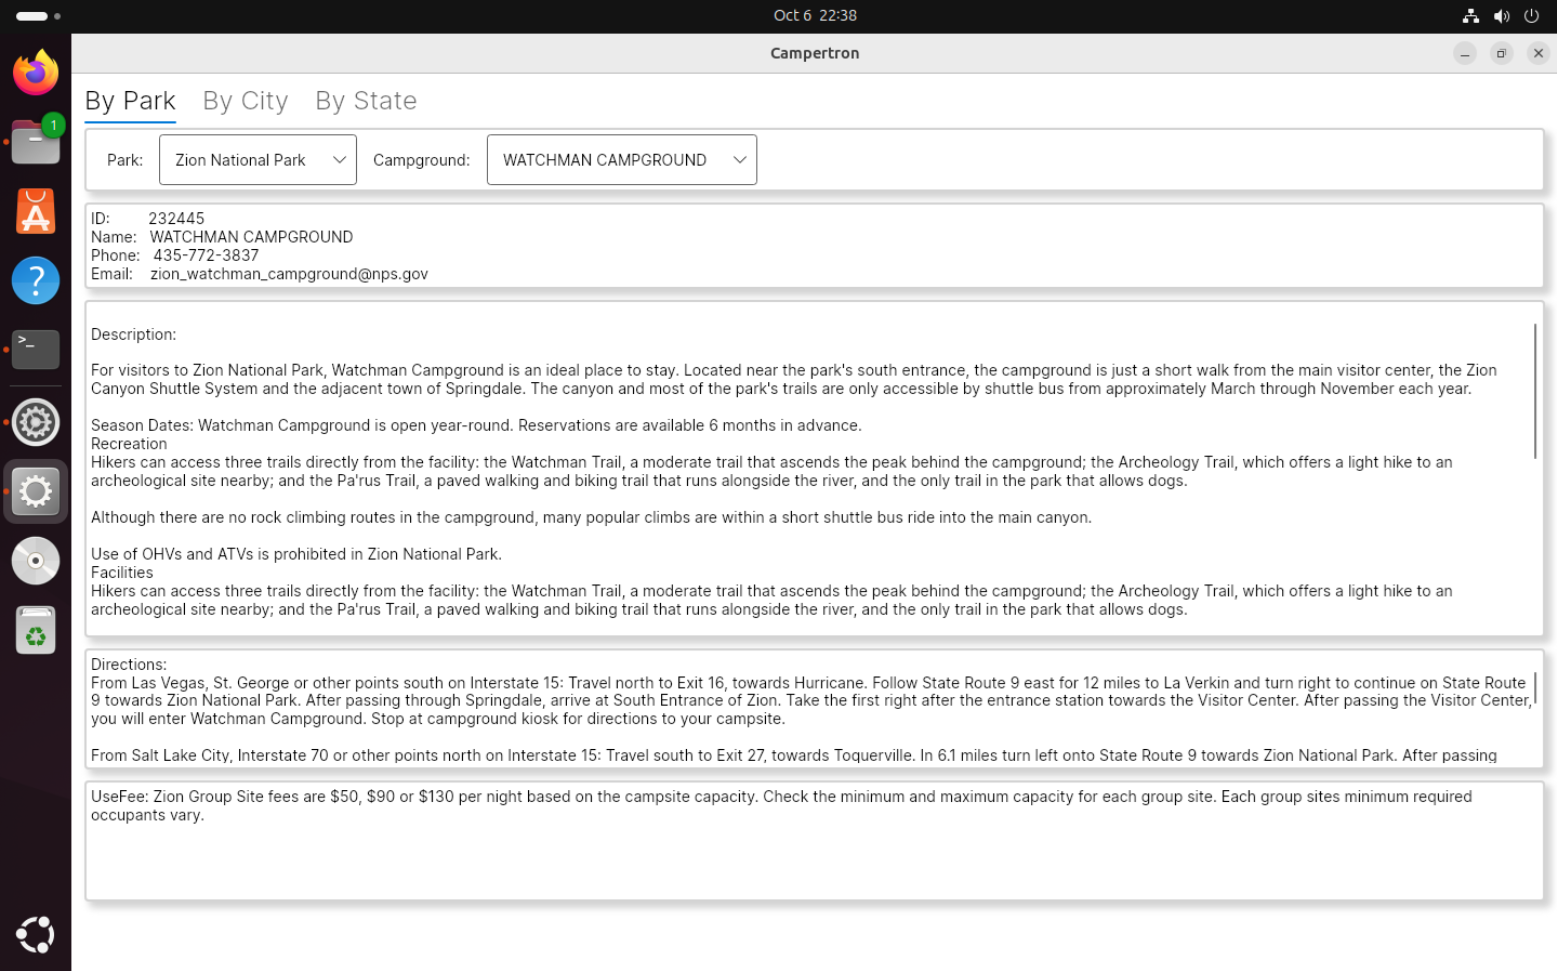
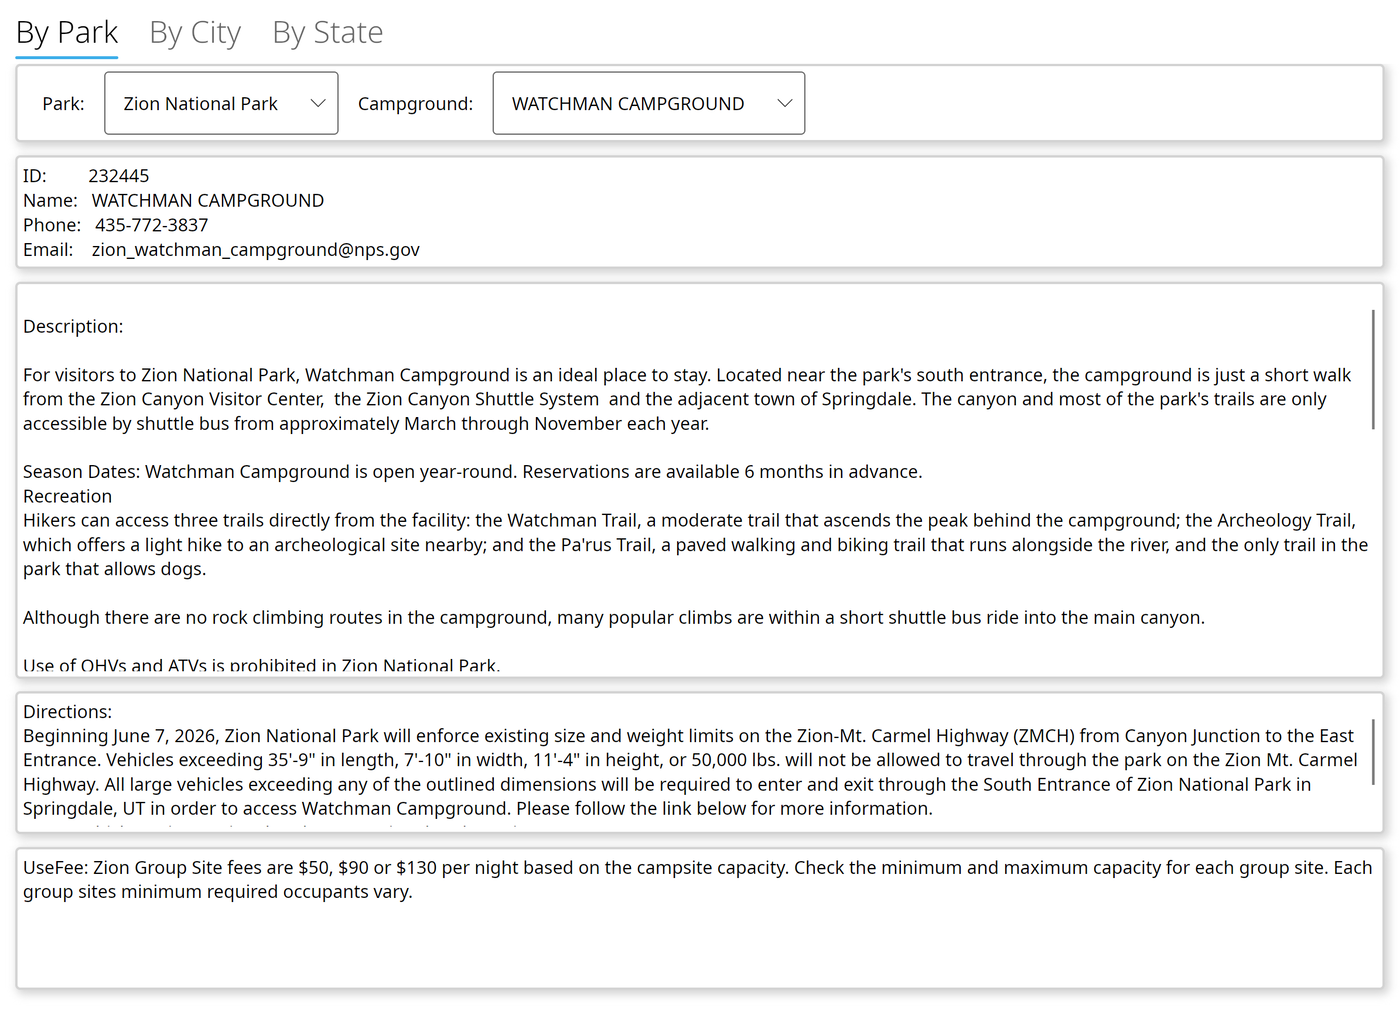
Refresh README screenshots
ss5 (console View Config) and ss6 (GUI, By Park, Zion National Park /
Watchman Campground) are recaptured from the current application built from
fa15649: the console in a real terminal with a neutral stand-in home folder
and Windows Terminal colors to match ss1/ss2, the GUI as the real Avalonia 12
window, both with isolated data. ss1 and ss2 are kept; their menu labels and
output format are unchanged. (ss4, a duplicate menu screenshot, was removed
with the README rewrite.) build-and-test.md records how each screenshot was
produced so it can be refreshed; open question #17 and console-to-gui-map
are updated.

diff --git a/docs/ai-context/build-and-test.md b/docs/ai-context/build-and-test.md
@@ -472,6 +472,32 @@ So `Populate` is about **5.6× faster** and peak memory about **3.1× lower**; a
 | Published linux-x64 GUI (isolated, real display) | still running after 30 s, DB `8712856097a91ee1…`, no output; both `--version` `.NET 10.0.14 (X64)` |
 | Real `~/.local/share/CampertronConfig` and `CampertronCache` | unchanged (397 entries) |
 
+### Refreshing the README screenshots (maintainer procedure)
+Recorded 2026-11-11 for branch `docs/rewrite-readme` (application built from `fa15649`). All captures use isolated data and no personal paths, names or searches.
+
+| File | Shows | Source |
+|---|---|---|
+| `docs/campertron.png` | hero image (a 1024×1024 JPEG despite the `.png` name) | unchanged; keep unless the maintainer approves a replacement |
+| `docs/ss1.png` | console main menu (Windows Terminal) | kept from 2024; the menu labels are unchanged in `Menu.cs` |
+| `docs/ss2.png` | console search results (Mather Campground, December 2024) | kept from 2024; the output code (`AvailabilityApi`, `Console.cs`, `Calendar.cs`) has not changed since |
+| `docs/ss5.png` | console View Config | recaptured 2026-11-11, 1115×489 |
+| `docs/ss6.png` | GUI, By Park tab, Zion National Park / WATCHMAN CAMPGROUND | recaptured 2026-11-11 (Avalonia 12), 1400×1011 |
+
+`docs/ss4.png` (a second menu screenshot) was removed as a duplicate of `ss1.png`. The README references images by relative path (`docs/…`), so a branch shows its own images.
+
+**ss6 (GUI)** [V on Linux x64, KDE Plasma Wayland with XWayland, ImageMagick 7]
+1. `dotnet build CampertronGUI` (Release), and an isolated data directory `X` with `CampertronConfig/General.yaml` (`outputTo: Console`, `autoRefresh: false`, a recent `lastRidbDataRefresh`). The GUI extracts the bundled database on start.
+2. A scratch launcher (not in the repository) references `CampertronGUI.csproj` and starts the real app with the production chain `AppBuilder.Configure<Campertron.App>().UsePlatformDetect().LogToTrace().UseReactiveUI(_ => { })`. After start it sets the main window to 1100×820, selects the **By Park** tab and the ComboBox items `Zion National Park` and `WATCHMAN CAMPGROUND` in the window's own controls, and waits.
+3. Run it with `AVALONIA_GLOBAL_SCALE_FACTOR=1.5 XDG_DATA_HOME=X` and capture the X11 window with `import -window Campertron <file>`. The effective scaling was 2.17 (1.5 × the desktop's 1.45), giving 2390×1781.
+4. `magick <file> -crop 2390x1726+0+0 +repage -filter Lanczos -resize 1400x -strip -define png:compression-level=9 docs/ss6.png` (trims the empty strip below the last panel).
+- `RenderTargetBitmap` of the window was tried first and **does not work** for this: borders and text were drawn with different offsets. Capture the real window instead.
+
+**ss5 (console View Config)** [V same environment]
+1. `dotnet publish CampertronConsole -c Release -r linux-x64 --self-contained true -o <dir>`.
+2. For a neutral path, run inside an unprivileged user and mount namespace with a stand-in home: `unshare -rm <script>`, where the script mounts a `tmpfs` on `/home`, creates `/home/camper/.local/share/CampertronConfig/General.yaml` (as above, `lastRidbDataRefresh` a few days earlier), sets `HOME=/home/camper`, unsets `XDG_DATA_HOME` and `WAYLAND_DISPLAY`, and starts `alacritty` with 92×17 cells, font size 13, padding 10/8 and Windows Terminal's "Campbell" colors (to match `ss1`/`ss2`).
+3. In the terminal: `stty raw -echo; { (sleep 5; printf '\033[B'; sleep 0.7; printf '\033[B'; sleep 0.7; printf '\r'; sleep 40) & cat; } | script -q -c <dir>/CampertronConsole /dev/null` (two Down arrows and Enter select View Config). Raw mode and `cat` are needed because the console queries the cursor position; a plain pipe hangs it.
+4. Find the window (`xprop -root _NET_CLIENT_LIST`, then the one whose `WM_CLASS` is Alacritty), `import -window <id> <file>`, then `magick <file> -filter Lanczos -resize 1115x -strip docs/ss5.png`.
+
 ### Refreshing the embedded database (maintainer procedure)
 Verified 2026-11-10 for `07e786d`. All steps run in a scratch directory, never in the user's data dirs.
 1. `dotnet build Campertron.sln -c Release`

diff --git a/docs/ai-context/open-questions.md b/docs/ai-context/open-questions.md
@@ -33,6 +33,6 @@ These cannot be established from the repository. Do not guess. Resolve them with
 
 ## GUI
 16. Is the GUI intended to reach parity with the console (search, config editing), or will it remain a lookup tool? README describes only lookup.
-17. Is the README screenshot `docs/ss6.png` current with `MainWindow.axaml`? Not compared.
+17. ~~Is the README screenshot `docs/ss6.png` current with `MainWindow.axaml`?~~ **Resolved 2026-11-11:** recaptured from the current Avalonia 12 GUI (build-and-test.md §Refreshing the README screenshots).
 20. ~~Does `CampertronGUI.exe --version` print anything on Windows when its output is redirected (`| more`, `> file`)?~~ **Resolved 2026-11-11 for a pipe:** yes. On GitHub-hosted Windows runners (win-x64, win-x86, win-arm64), `CampertronGUI.exe --version | tr -d '\r'` in Git Bash printed the version line and `Framework => .NET 10.0.15 (X64|X86|Arm64)` (build-and-test.md §L). `> file` and `| more` in `cmd` were not run separately.
 23. Should the Avalonia 12 platform tiers be reflected in user-facing documentation? Avalonia 12 lists `win-x86` as Tier 3 (commercial support only) and does not list desktop `linux-arm` (armv7) (build-and-test.md §K). Both targets still build, ship native Skia/HarfBuzz binaries and are published, but neither is run natively in CI or the release workflow (the temporary TD-35 validation ran the win-x86 GUI once, on an x64 Windows runner; build-and-test.md §L). The RID list, README and release notes were deliberately left unchanged in the migration.

diff --git a/docs/ai-context/console-to-gui-map.md b/docs/ai-context/console-to-gui-map.md
@@ -27,4 +27,4 @@ GUI facts come from `CampertronGUI/Views/MainWindow.axaml`, `Views/MainWindow.ax
 | `--version` | `Program.Main` → `RuntimeInfo` (same as the console, F13) | Prints the version and .NET runtime and exits before Avalonia starts. On Windows (WinExe) only visible when redirected [A] |
 | Facility details panel | Binds `FacilityID`, `FacilityName`, `FacilityPhone`, `FacilityEmail`, `FacilityDescription`, `FacilityDirections`, `FacilityUseFeeDescription` of `FacilitiesData`, with labels prefixed by `Read.NullCheck` and HTML stripped by `Read.HtmlToPlainText` | This is how users get the `campgroundID` for a search YAML (README: "run CampertronGUI to get the campground ID") |
 
-The README's GUI screenshot (`docs/ss6.png`) has not been compared against the current XAML.
+The README's GUI screenshot (`docs/ss6.png`) was recaptured on 2026-11-11 from the current Avalonia 12 `MainWindow` (build-and-test.md §Refreshing the README screenshots).
